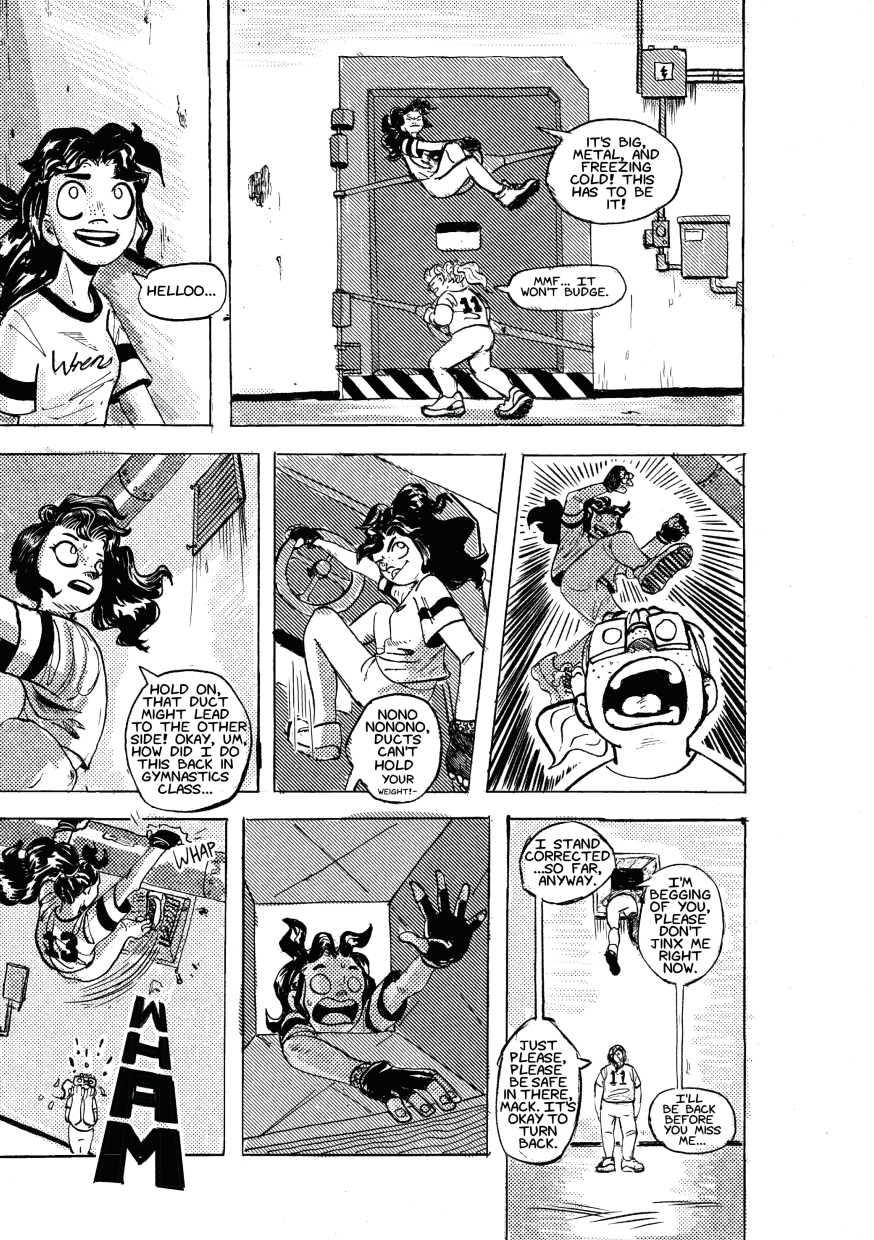
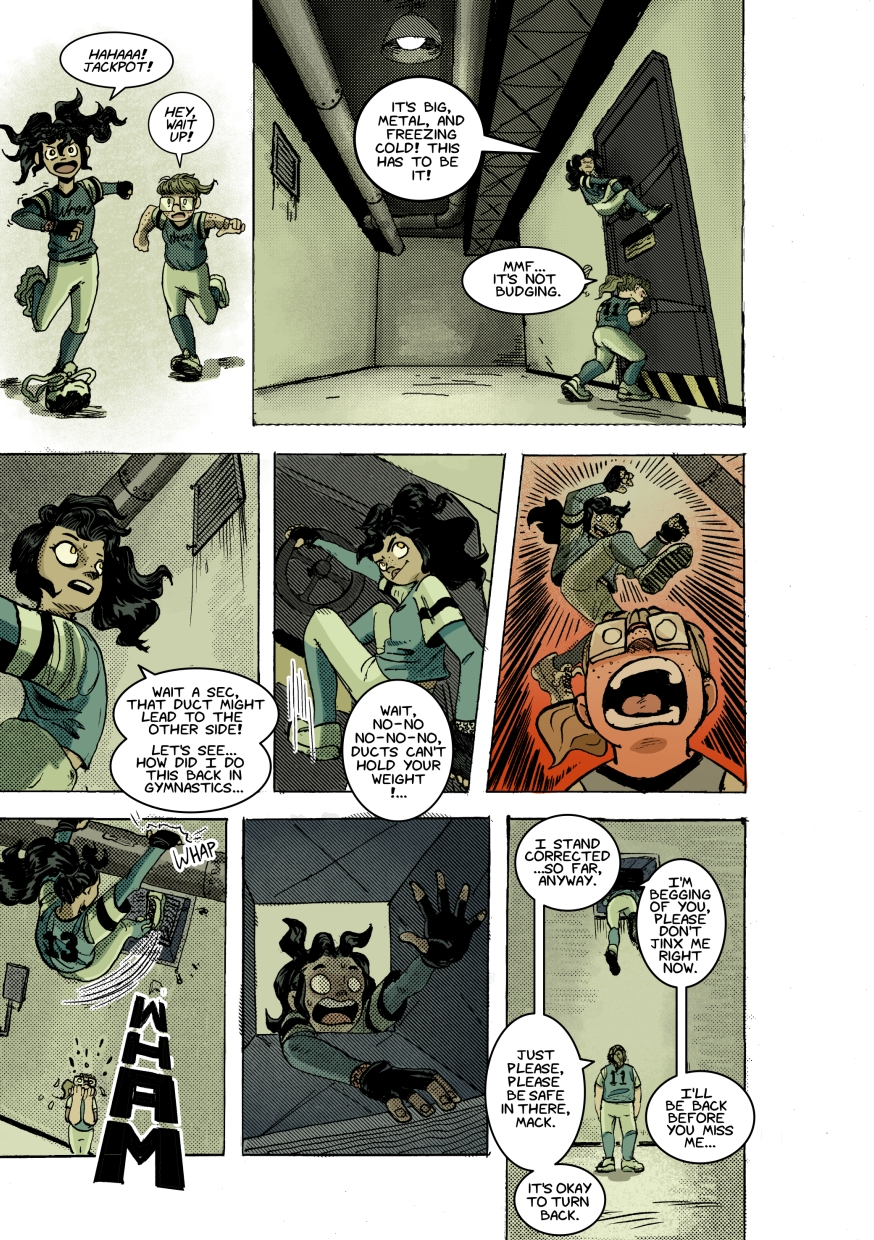
swathes of new pages, black and white and colored

diff --git a/js/comic_settings.js b/js/comic_settings.js
@@ -11,7 +11,7 @@ let pg = Number(findGetParameter("pg")); //make "pg" mean the current page numbe
 ////////////////////////
 
 //REALLY IMPORTANT ONES
-const maxpg = 7; //the current number of pages your comic has in total. this DOESNT necessarily mean number of IMAGE FILES as it doesn't count pages split into multiple files. 
+const maxpg = 8; //the current number of pages your comic has in total. this DOESNT necessarily mean number of IMAGE FILES as it doesn't count pages split into multiple files.
 //YOU MUST UPDATE THIS NUMBER EVERY TIME YOU ADD A NEW PAGE or else it wont display the most recent page
 
 // COMIC PAGE SETTINGS
@@ -114,6 +114,15 @@ const pgData = [
         altText: "",
         imageFiles: 4,
         authorNotes: ``,
+    },
+    {
+        pgNum: 8,
+        title: "It Came From Beneath Our School, Pt. 8",
+        date: writeDate(2026, 11, 11),
+        altText: "",
+        imageFiles: 6,
+        authorNotes: `Lots been happening, will try to update the best I can. Glad to see all the new visitors to the page.
+            -elderstyx  `,
     },
 ];
 
